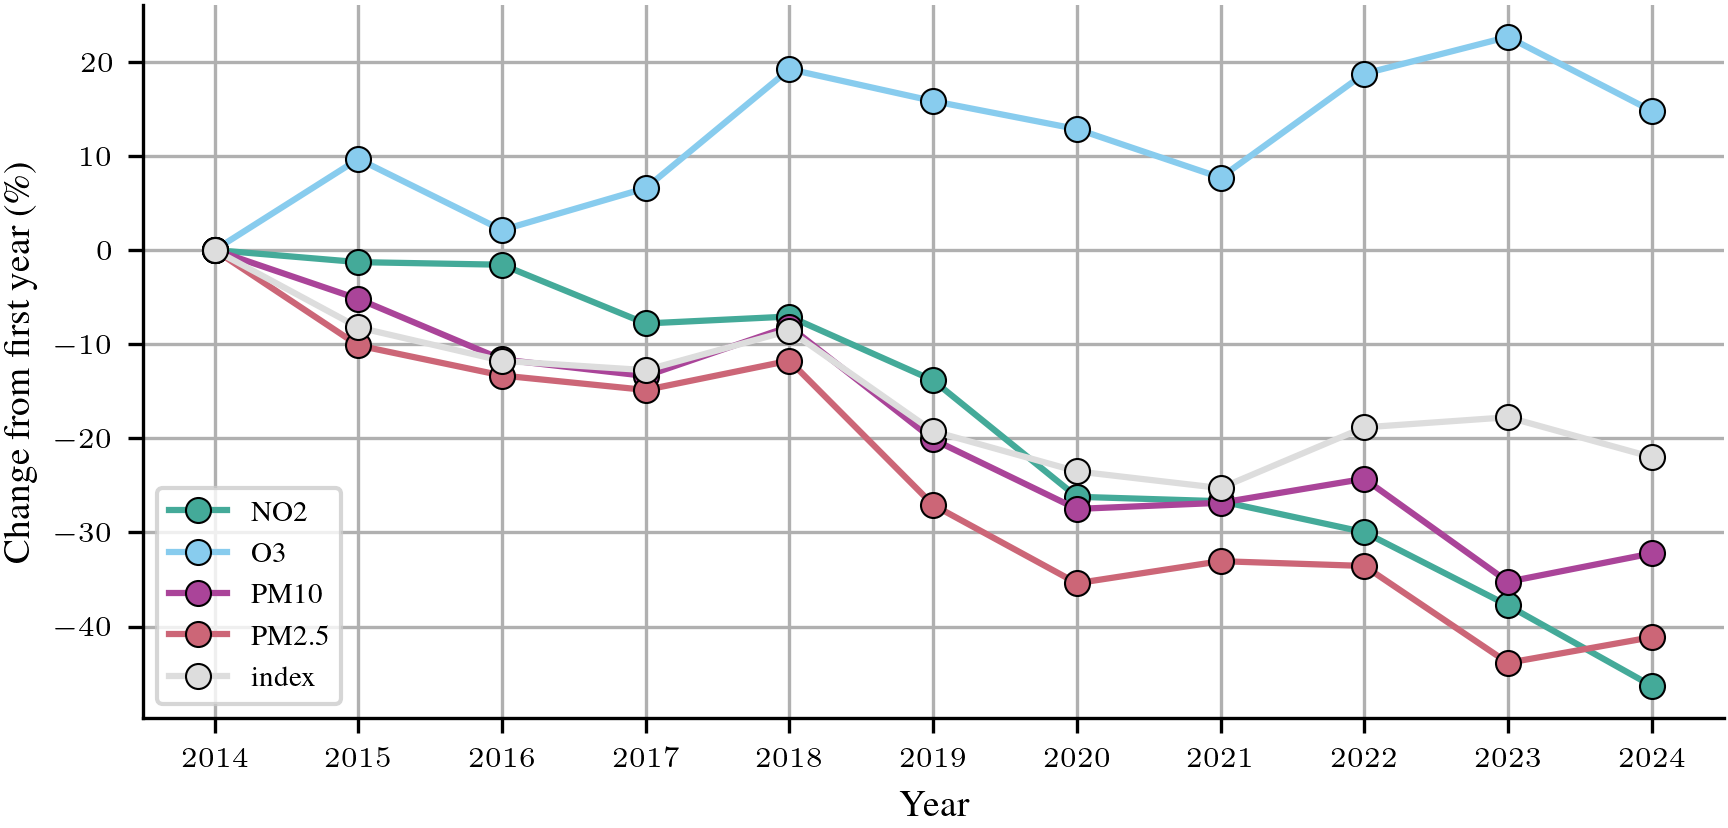
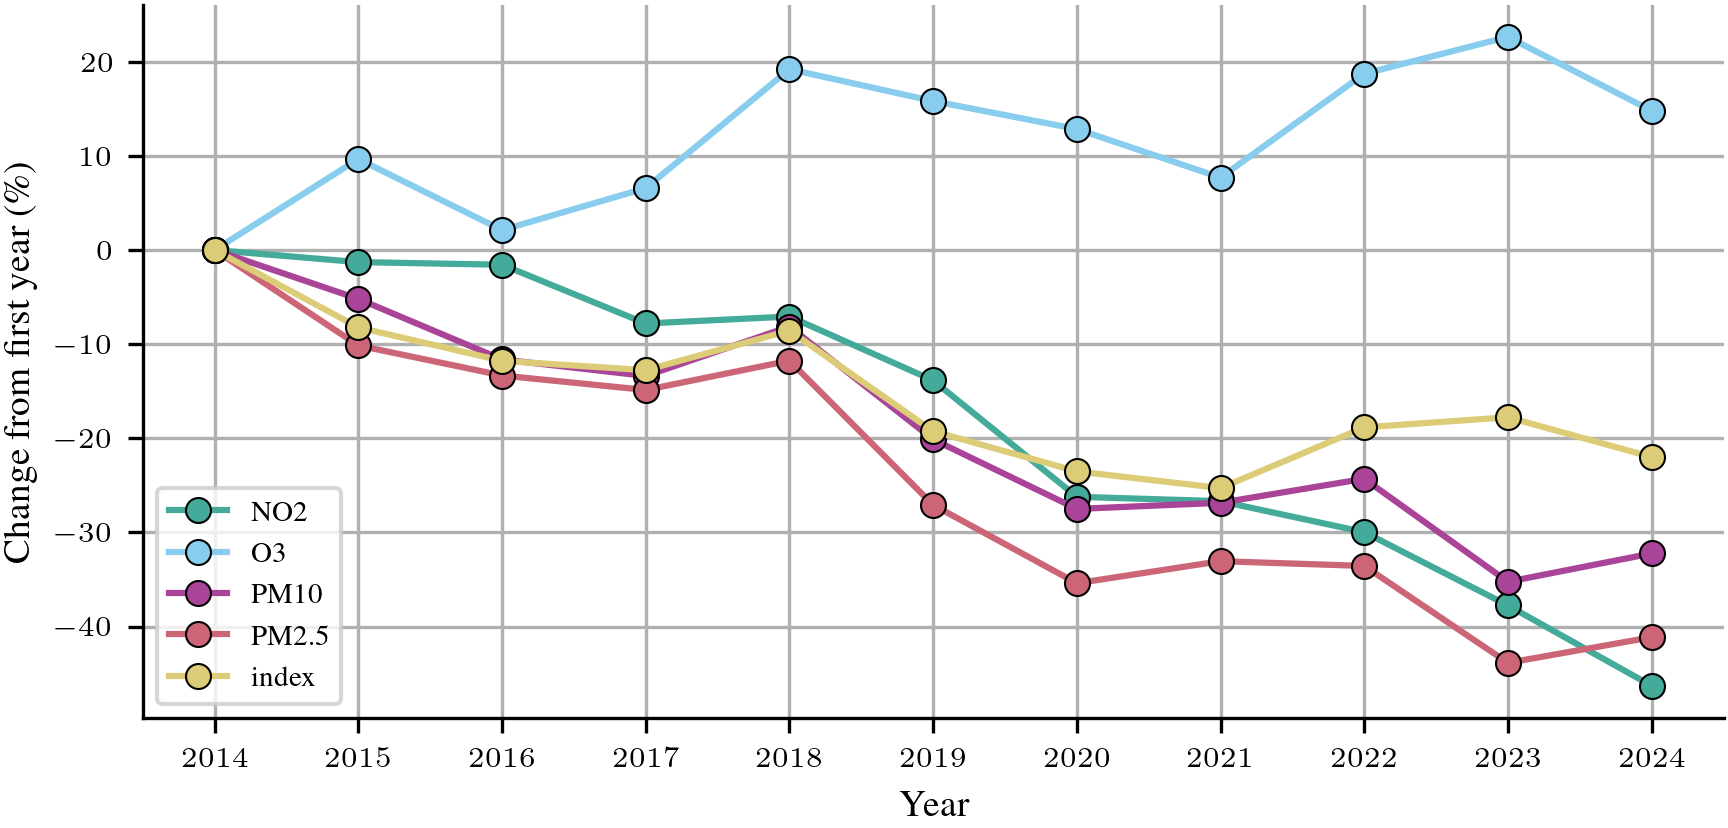
air pollution

diff --git a/final/analysis/air_pollution_trends/air_pollution_trends.py b/final/analysis/air_pollution_trends/air_pollution_trends.py
@@ -13,7 +13,7 @@ plt.rcParams.update(markers.with_edge())
 plt.rcParams.update(cycler.cycler(color=palettes.paultol_muted))
 
 pollutant_colors = {
-    'index': '#DDDDDD',
+    'index': '#DDCC77',
     'NO2': '#44AA99',
     'PM2.5': '#CC6677',
     'PM10': '#AA4499',
